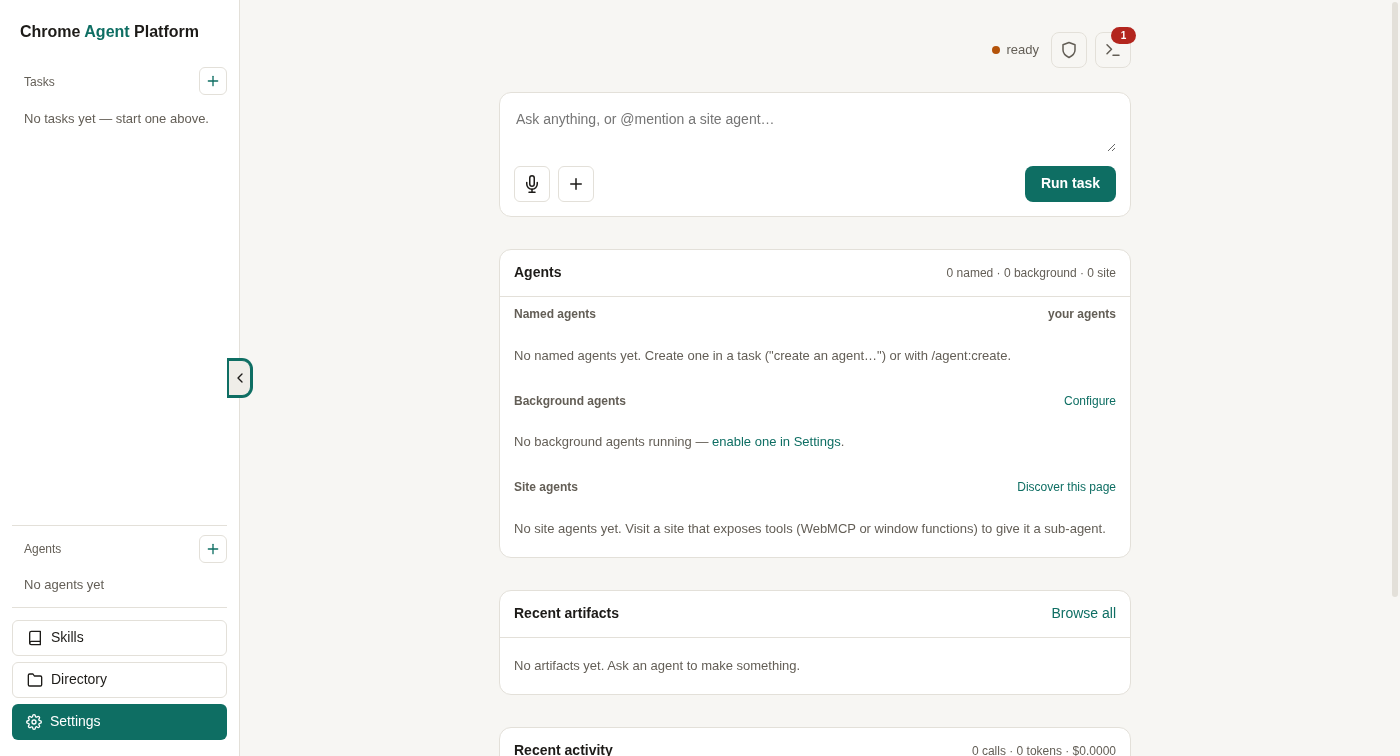
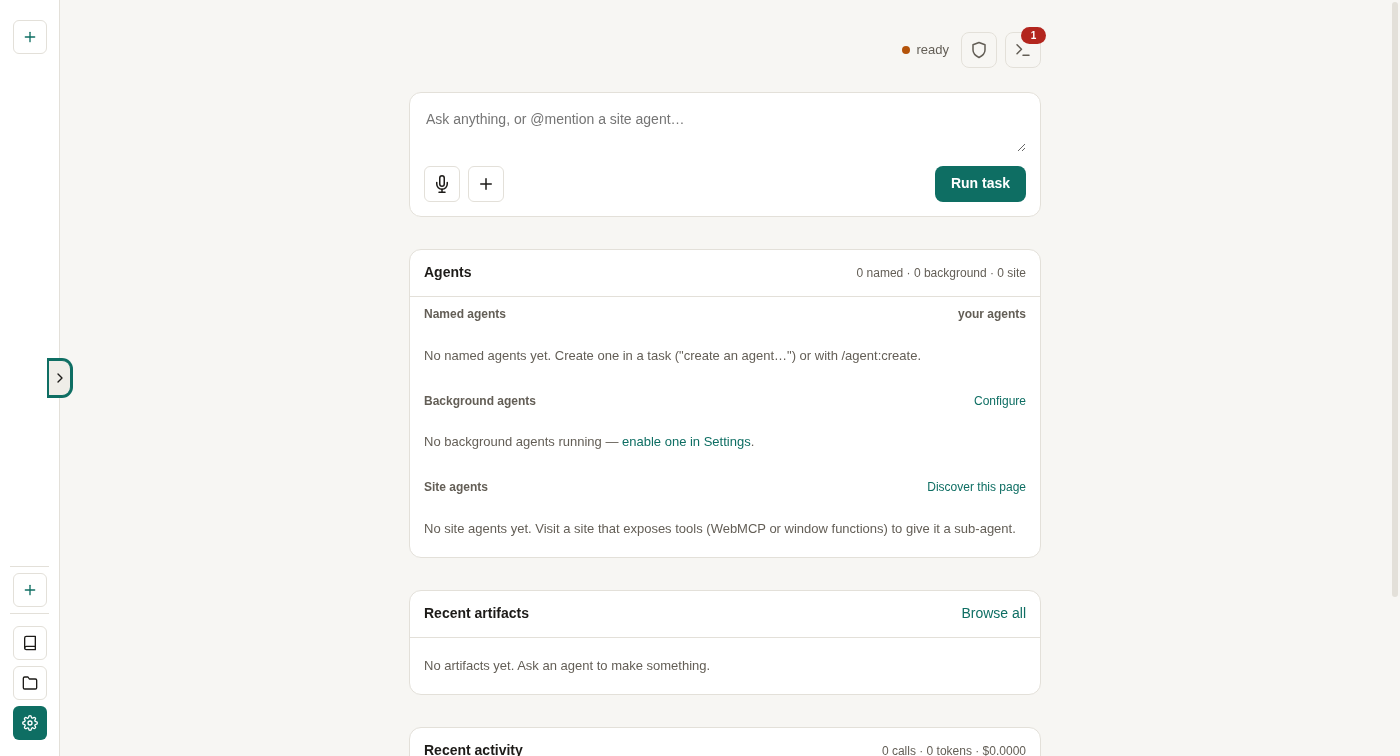
fix(sidebar): resolve second review blockers — nub sibling stacking, hit-testing, persistence contract, activity path, matrix
Review blockers (sol 8bd2351f) resolved:
1. RTL rail border now swaps to the inner (left) edge ([dir=rtl] .side border-left).
2. The nub is now a SIBLING of #side (moved out of the sidebar) so its z-index
   competes in the root stacking context against #thread-view — a descendant's
   z-index was trapped inside .side's sticky stacking context. elementFromPoint
   at 5 points + a pointer click are now asserted with the overlay open.
3. Persistence awaits + inspects kv.set's {ok:false} (send() resolves, doesn't
   reject); a backend failure logs a session-only warning instead of silently
   claiming persistence.
4. Rapid double-click asserts the deterministic net-zero prior state + a settled
   View Transition (width matches).
5. Activity is seeded through the PRODUCTION path: memory.set on the master
   journal, then the explorer re-loads via activity.list (not the demo entries
   setter).
6. test:all now uses deno test -A (was --allow-read; @vercel/oidc needs
   --allow-sys).
7. Matrix: narrow (500px), prefers-reduced-motion, and dark-theme checks added.
8. Evidence: test-artifacts/sidebar-evidence.json records the screenshot sha256
   hashes + the verified list; screenshots regenerated.

Gates: npm test 321/321, test:components 34/34, test:ui 32/32, git diff --check clean.

diff --git a/scripts/ui-integration.ts b/scripts/ui-integration.ts
@@ -182,6 +182,35 @@ try {
   // reachable when a view is open (the sidebar persists for the task thread).
   const nubZ = await cdp.eval(hub, `(() => { const t = document.querySelector('#side-toggle'); const z = t ? parseInt(getComputedStyle(t).zIndex) : 0; const tv = document.querySelector('#thread-view'); const tvz = tv ? parseInt(getComputedStyle(tv).zIndex) : 0; return { z, tvz }; })()`);
   check("nub z-index is above the thread overlay", nubZ?.z > nubZ?.tvz, nubZ);
+  // 2b-2. Real overlay hit-testing: force the thread overlay open and prove the
+  //     FULL 44×44 nub is still hit-testable (elementFromPoint) + toggles on a
+  //     pointer click — not just a z-index integer comparison.
+  const overlayHit = await cdp.eval(hub, `(() => {
+    const tv = document.getElementById('thread-view');
+    tv.hidden = false; // simulate an open thread (no seeded thread needed)
+    const t = document.querySelector('#side-toggle');
+    const r = t.getBoundingClientRect();
+    const pts = [
+      { x: r.left + r.width/2, y: r.top + r.height/2 },
+      { x: r.left + 3, y: r.top + 3 },
+      { x: r.right - 3, y: r.bottom - 3 },
+      { x: r.left + 3, y: r.bottom - 3 },
+      { x: r.right - 3, y: r.top + 3 },
+    ];
+    const hits = pts.map(p => { const el = document.elementFromPoint(p.x, p.y); return el && (el === t || t.contains(el)); });
+    tv.hidden = true;
+    return { allInNub: hits.every(Boolean), hits, r: { left: Math.round(r.left), right: Math.round(r.right), top: Math.round(r.top), bottom: Math.round(r.bottom) } };
+  })()`);
+  check("open-thread overlay: every sampled point of the 44×44 nub is hit-testable", overlayHit?.allInNub === true, overlayHit);
+  // A pointer click at the nub centre toggles even with the thread overlay open.
+  const ptrBefore = await cdp.eval(hub, `document.querySelector('#side').classList.contains('collapsed')`);
+  const nubCtr = await cdp.eval(hub, `(() => { const r = document.querySelector('#side-toggle').getBoundingClientRect(); return { x: r.left + r.width/2, y: r.top + r.height/2 }; })()`);
+  await cdp.eval(hub, `document.getElementById('thread-view').hidden = false`);
+  await cdp.send("Input.dispatchMouseEvent", { type: "mousePressed", x: nubCtr.x, y: nubCtr.y, button: "left", clickCount: 1 }, hub);
+  await cdp.send("Input.dispatchMouseEvent", { type: "mouseReleased", x: nubCtr.x, y: nubCtr.y, button: "left", clickCount: 1 }, hub);
+  await sleep(500);
+  const ptrAfter = await cdp.eval(hub, `(() => { document.getElementById('thread-view').hidden = true; return document.querySelector('#side').classList.contains('collapsed'); })()`);
+  check("pointer click on the nub toggles the sidebar with the thread overlay open", ptrAfter !== ptrBefore, { ptrBefore, ptrAfter });
   // Commit-specific evidence: capture the collapsed rail + nub.
   const shotCollapsed = await cdp.send("Page.captureScreenshot", { format: "png", fromSurface: true }, hub);
   await Deno.writeFile(`${ROOT}test-artifacts/sidebar-collapsed.png`, Uint8Array.from(atob(shotCollapsed.data), (c: number) => c.charCodeAt(0)));
@@ -194,19 +223,22 @@ try {
   await sleep(500); // let the View Transition settle
   const keyAfter = await cdp.eval(hub, `(() => { const t = document.querySelector('#side-toggle'); const side = document.querySelector('#side'); return { expanded: t.getAttribute('aria-expanded'), collapsed: side.classList.contains('collapsed'), label: t.getAttribute('aria-label'), title: t.title }; })()`);
   check("Enter toggles the sidebar (collapsed ↔ expanded)", keyBefore && keyAfter && keyBefore.collapsed !== keyAfter.collapsed, { keyBefore, keyAfter });
-  check("aria-expanded + label + title track the state", keyAfter && keyAfter.collapsed === false && keyAfter.expanded === "true" && keyAfter.label === "Collapse sidebar" && keyAfter.title === "Collapse sidebar", keyAfter);
+  check("aria-expanded + label + title track the state", keyAfter && keyAfter.expanded === String(!keyAfter.collapsed) && keyAfter.label === (keyAfter.collapsed ? "Expand sidebar" : "Collapse sidebar") && keyAfter.title === keyAfter.label, keyAfter);
   const shotExpanded = await cdp.send("Page.captureScreenshot", { format: "png", fromSurface: true }, hub);
   await Deno.writeFile(`${ROOT}test-artifacts/sidebar-expanded.png`, Uint8Array.from(atob(shotExpanded.data), (c: number) => c.charCodeAt(0)));
 
   // 2d. Space toggles too (native button activation).
   await cdp.eval(hub, `(() => { const t = document.querySelector('#side-toggle'); t.focus(); })()`);
+  const spaceBefore = await cdp.eval(hub, `document.querySelector('#side').classList.contains('collapsed')`);
   await cdp.send("Input.dispatchKeyEvent", { type: "rawKeyDown", key: " ", code: "Space", windowsVirtualKeyCode: 32, nativeVirtualKeyCode: 32 }, hub);
   await cdp.send("Input.dispatchKeyEvent", { type: "keyUp", key: " ", code: "Space", windowsVirtualKeyCode: 32, nativeVirtualKeyCode: 32 }, hub);
   await sleep(500);
   const spaceAfter = await cdp.eval(hub, `document.querySelector('#side').classList.contains('collapsed')`);
-  check("Space toggles the sidebar", spaceAfter === true, { spaceAfter });
+  check("Space toggles the sidebar", spaceAfter !== spaceBefore, { spaceBefore, spaceAfter });
 
-  // 2e. The collapsed state persists across a reload.
+  // 2e. The collapsed state persists across a reload (collapse first, then reload).
+  await cdp.eval(hub, `(() => { const side = document.querySelector('#side'); if (!side.classList.contains('collapsed')) document.querySelector('#side-toggle').click(); })()`);
+  await sleep(500);
   await cdp.send("Page.reload", {}, hub);
   await sleep(1500);
   const afterReload = await cdp.eval(hub, `(() => { const side = document.querySelector('#side'); return { collapsed: side?.classList.contains('collapsed') ?? false, width: side ? Math.round(side.getBoundingClientRect().width) : 0 }; })()`);
@@ -228,11 +260,14 @@ try {
   })()`);
   check("RTL nub centres on the rail's inner (left) boundary", rtlGeom && Math.abs(rtlGeom.nubCx - rtlGeom.sideLeft) <= 3, rtlGeom);
 
-  // 2g. Rapid double-click settles to a single, final state (no stuck transition).
+  // 2g. Rapid double-click is a NET-ZERO toggle: two clicks return the sidebar
+  //     to its prior state, and the View Transition settles (width matches).
+  const rapidBefore = await cdp.eval(hub, `document.querySelector('#side').classList.contains('collapsed')`);
   await cdp.eval(hub, `(() => { const t = document.querySelector('#side-toggle'); t.click(); t.click(); })()`);
   await sleep(700);
-  const rapid = await cdp.eval(hub, `(() => { const side = document.querySelector('#side'); const t = document.querySelector('#side-toggle'); return { collapsed: side.classList.contains('collapsed'), expanded: t.getAttribute('aria-expanded') }; })()`);
-  check("rapid double-click settles without a stuck transition", rapid && (rapid.collapsed === true || rapid.collapsed === false) && rapid.expanded === String(!rapid.collapsed), rapid);
+  const rapidAfter = await cdp.eval(hub, `(() => { const side = document.querySelector('#side'); const t = document.querySelector('#side-toggle'); return { collapsed: side.classList.contains('collapsed'), width: Math.round(side.getBoundingClientRect().width), expanded: t.getAttribute('aria-expanded') }; })()`);
+  check("rapid double-click returns to the deterministic prior state (net-zero)", rapidAfter.collapsed === rapidBefore, { rapidBefore, rapidAfter });
+  check("View Transition settled (width matches the final state)", rapidAfter.width === (rapidAfter.collapsed ? 60 : 240), rapidAfter);
 
   // 3. The + menu opens AND stays in-bounds.
   const attach = await cdp.eval(hub, `(() => {
@@ -275,21 +310,24 @@ try {
     check("the error console stays in-bounds", inBounds(consoleRect.rect, consoleRect.vw, consoleRect.vh), consoleRect.rect);
   }
 
-  // 5. The recent-activity rows have horizontal padding + real entry content
-  //    (an EMPTY state is non-attesting: it renders even if activity loading
-  //    is broken). Seed a real entry and assert its content + padding.
-  const activity = await cdp.eval(hub, `(() => {
-    const ae = document.querySelector('#run-log activity-explorer');
-    if (!ae || !ae.shadowRoot) return { note: 'no activity-explorer' };
-    // Seed via the component's public entries setter (the gallery path) so we
-    // assert the ENTRY render, not the empty state.
-    ae.entries = [{ id: 't1', source: 'hub', agentLabel: 'Hub', type: 'task', task: 'Summarise the docs', result: 'done' }];
-    const summary = ae.shadowRoot.querySelector('.aex-entry summary');
-    if (!summary) return { note: 'no entry rendered' };
+  // 5. The recent-activity rows have horizontal padding + real entry content,
+  //    loaded through the PRODUCTION activity.list path (not the demo entries
+  //    setter): seed the SW master journal via memory.set, recreate the explorer
+  //    so it re-loads via activity.list, and assert the rendered entry.
+  const activity = await cdp.eval(hub, `(async () => {
+    const seed = await chrome.runtime.sendMessage({ type: "memory.set", origin: "master", key: "journal", value: [{ type: "task", id: "t1", task: "Summarise the docs", tool: "demo" }] });
+    const el = document.getElementById('run-log');
+    el.replaceChildren();
+    const explorer = document.createElement('activity-explorer');
+    explorer.setAttribute('limit', '100');
+    el.append(explorer);
+    await new Promise(r => setTimeout(r, 600)); // let _load() round-trip activity.list
+    const summary = explorer.shadowRoot?.querySelector('.aex-entry summary');
+    if (!summary) return { note: 'no entry rendered', seed };
     const cs = getComputedStyle(summary);
-    return { paddingLeft: parseFloat(cs.paddingLeft), paddingTop: parseFloat(cs.paddingTop), text: summary.textContent.trim(), entryCount: ae.shadowRoot.querySelectorAll('.aex-entry').length, empty: !!ae.shadowRoot.querySelector('.aex-empty') };
+    return { paddingLeft: parseFloat(cs.paddingLeft), paddingTop: parseFloat(cs.paddingTop), text: summary.textContent.trim(), entryCount: explorer.shadowRoot.querySelectorAll('.aex-entry').length, empty: !!explorer.shadowRoot.querySelector('.aex-empty'), seed };
   })()`);
-  check("recent-activity renders the seeded entry (content, not empty)", activity?.entryCount === 1 && activity?.empty === false && /Summarise the docs/.test(activity?.text ?? ""), activity);
+  check("recent-activity renders the journal entry via production activity.list", activity?.entryCount === 1 && activity?.empty === false && /Summarise the docs/.test(activity?.text ?? ""), activity);
   check("the recent-activity entry has horizontal padding (not edge-to-edge)", (activity?.paddingLeft ?? 0) > 0, activity);
 
   // ---- Settings ----
@@ -330,6 +368,27 @@ try {
     return { hasInput: !!inp, hasSend: send };
   })()`);
   check("chat composer renders (input + send)", chatComposer?.hasInput && chatComposer?.hasSend, chatComposer);
+
+  // 8. Responsive + theme + reduced-motion matrix (the nub must hold up beyond
+  //    the default 1400×900 light LTR run).
+  await cdp.send("Emulation.setDeviceMetricsOverride", { width: 500, height: 800, deviceScaleFactor: 1, mobile: false }, hub);
+  const narrow = await cdp.eval(hub, `(() => { const t = document.querySelector('#side-toggle'); const r = t.getBoundingClientRect(); return { left: Math.round(r.left), right: Math.round(r.right), vw: innerWidth, inBounds: r.left >= 0 && r.right <= innerWidth }; })()`);
+  check("narrow (500px) viewport: nub stays in-bounds", narrow?.inBounds === true, narrow);
+  await cdp.send("Emulation.setDeviceMetricsOverride", { width: 1400, height: 900, deviceScaleFactor: 1, mobile: false }, hub);
+
+  await cdp.send("Emulation.setEmulatedMedia", { features: [{ name: "prefers-reduced-motion", value: "reduce" }] }, hub);
+  const reducedMotion = await cdp.eval(hub, `(() => { const t = document.querySelector('#side-toggle'); return { transition: getComputedStyle(t).transition }; })()`);
+  check("prefers-reduced-motion disables the nub transition", reducedMotion && (reducedMotion.transition === "none" || reducedMotion.transition.includes("0s")), reducedMotion);
+  await cdp.send("Emulation.setEmulatedMedia", { features: [] }, hub);
+
+  const darkNub = await cdp.eval(hub, `(() => {
+    document.documentElement.dataset.theme = 'charcoal';
+    const nub = document.querySelector('#side-toggle .nub');
+    const cs = getComputedStyle(nub);
+    document.documentElement.dataset.theme = 'sunlit';
+    return { visible: cs.borderTopStyle !== 'none' && cs.borderTopWidth !== '0px', border: cs.borderTopColor };
+  })()`);
+  check("dark theme: nub renders with a visible border", darkNub?.visible === true, darkNub);
 
   exitCode = fail === 0 ? 0 : 1;
 } finally {

diff --git a/extension/ntp/ntp.html b/extension/ntp/ntp.html
@@ -27,7 +27,6 @@
       display: none;
     }
     .side {
-      --side-width: 240px;
       width: 240px;
       flex: 0 0 240px;
       border-right: 1px solid var(--border);
@@ -43,18 +42,20 @@
       transition: width .18s ease, flex-basis .18s ease;
     }
     /* collapsed → a narrow icon rail */
-    .side.collapsed { --side-width: 60px; width: 60px; flex-basis: 60px; padding-left: 10px; padding-right: 10px; }
+    .side.collapsed { width: 60px; flex-basis: 60px; padding-left: 10px; padding-right: 10px; }
     .brand-row { display: flex; align-items: center; gap: 6px; }
     .brand-row .brand { flex: 1; min-width: 0; overflow: hidden; white-space: nowrap; }
     /* The collapse/expand control is an edge NUB protruding from the sidebar's
        right boundary — attached to the panel, discoverable, min 44×44 hit
-       target (the visible tab is smaller). position:fixed keeps it outside the
-       sidebar's overflow clip; --side-width tracks the rail so the nub follows
-       the collapse transition. */
+       target (the visible tab is smaller). It is a SIBLING of #side (not a
+       descendant) so its z-index competes in the root stacking context against
+       the #thread-view overlay — a descendant's z-index would be trapped inside
+       .side's sticky stacking context and painted under the overlay. */
     .side-toggle { display: inline-flex; align-items: center; justify-content: center;
-      position: fixed; left: var(--side-width, 240px); top: 50%; transform: translate(-50%, -50%);
+      position: fixed; left: 240px; top: 50%; transform: translate(-50%, -50%);
       width: 44px; height: 44px; border: 0; background: transparent; color: var(--muted);
       cursor: pointer; padding: 0; z-index: 110; transition: left .18s ease; }
+    #side.collapsed ~ .side-toggle { left: 60px; }
     .side-toggle .nub { display: inline-flex; align-items: center; justify-content: center;
       width: 22px; height: 36px; border: 1px solid var(--border); border-left: 0;
       border-radius: 0 9px 9px 0; background: var(--panel);
@@ -64,17 +65,20 @@
     .side-toggle:focus-visible { outline: none; }
     .side-toggle:focus-visible .nub { box-shadow: 0 0 0 2px var(--accent); }
     .side-toggle svg { display: block; transition: transform .18s ease; }
-    .side.collapsed .side-toggle svg { transform: rotate(180deg); }
+    #side.collapsed ~ .side-toggle svg { transform: rotate(180deg); }
     @media (prefers-reduced-motion: reduce) {
       .side-toggle, .side-toggle .nub, .side-toggle svg { transition: none; }
     }
     /* RTL: the rail sits on the right — mirror the nub to the left edge, flip
        the horizontal translate (the nub protrudes LEFT now), and mirror the
        chevron + border so collapse/expand direction reads correctly. */
-    [dir="rtl"] .side-toggle { left: auto; right: var(--side-width, 240px); transform: translate(50%, -50%); }
+    [dir="rtl"] .side-toggle { left: auto; right: 240px; transform: translate(50%, -50%); }
+    [dir="rtl"] #side.collapsed ~ .side-toggle { right: 60px; }
     [dir="rtl"] .side-toggle .nub { border-left: 1px solid var(--border); border-right: 0; border-radius: 9px 0 0 9px; }
     [dir="rtl"] .side-toggle svg { transform: scaleX(-1); }
-    [dir="rtl"] .side.collapsed .side-toggle svg { transform: scaleX(-1) rotate(180deg); }
+    [dir="rtl"] #side.collapsed ~ .side-toggle svg { transform: scaleX(-1) rotate(180deg); }
+    /* RTL: the rail's hairline border belongs on the INNER (left) edge. */
+    [dir="rtl"] .side { border-right: 0; border-left: 1px solid var(--border); }
     .side-label-row { display: flex; align-items: center; gap: 4px; }
     .side-label-row .side-label { flex: 1; min-width: 0; }
     /* Rail action buttons (new-task / new-agent) share the icon scale with the
@@ -545,15 +549,18 @@
           <svg viewBox="0 0 24 24" fill="none" stroke="currentColor" stroke-width="2" stroke-linecap="round" stroke-linejoin="round" width="16" height="16" aria-hidden="true"><path d="M22 19a2 2 0 0 1-2 2H4a2 2 0 0 1-2-2V5a2 2 0 0 1 2-2h5l2 3h9a2 2 0 0 1 2 2z"/></svg>
           <span class="btn-label">Directory</span>
         </button>
-      <button class="side-toggle" id="side-toggle" type="button" aria-label="Collapse sidebar" aria-expanded="true" title="Collapse sidebar">
-        <span class="nub"><svg viewBox="0 0 24 24" fill="none" stroke="currentColor" stroke-width="2" stroke-linecap="round" stroke-linejoin="round" width="16" height="16" aria-hidden="true"><polyline points="15 18 9 12 15 6"/></svg></span>
-      </button>
         <button class="btn foot-btn" id="open-settings" type="button" title="Settings">
           <svg viewBox="0 0 24 24" fill="none" stroke="currentColor" stroke-width="2" stroke-linecap="round" stroke-linejoin="round" width="16" height="16" aria-hidden="true"><circle cx="12" cy="12" r="3"/><path d="M19.4 15a1.65 1.65 0 0 0 .33 1.82l.06.06a2 2 0 0 1-2.83 2.83l-.06-.06a1.65 1.65 0 0 0-1.82-.33 1.65 1.65 0 0 0-1 1.51V21a2 2 0 0 1-4 0v-.09A1.65 1.65 0 0 0 9 19.4a1.65 1.65 0 0 0-1.82.33l-.06.06a2 2 0 0 1-2.83-2.83l.06-.06a1.65 1.65 0 0 0 .33-1.82 1.65 1.65 0 0 0-1.51-1H3a2 2 0 0 1 0-4h.09A1.65 1.65 0 0 0 4.6 9a1.65 1.65 0 0 0-.33-1.82l-.06-.06a2 2 0 0 1 2.83-2.83l.06.06a1.65 1.65 0 0 0 1.82.33H9a1.65 1.65 0 0 0 1-1.51V3a2 2 0 0 1 4 0v.09a1.65 1.65 0 0 0 1 1.51 1.65 1.65 0 0 0 1.82-.33l.06-.06a2 2 0 0 1 2.83 2.83l-.06.06a1.65 1.65 0 0 0-.33 1.82V9a1.65 1.65 0 0 0 1.51 1H21a2 2 0 0 1 0 4h-.09a1.65 1.65 0 0 0-1.51 1z"/></svg>
           <span class="btn-label">Settings</span>
         </button>
       </div>
     </aside>
+
+    <!-- The collapse/expand edge nub — a SIBLING of the sidebar (not a child) so
+         its z-index competes in the root stacking context against the overlays. -->
+    <button class="side-toggle" id="side-toggle" type="button" aria-label="Collapse sidebar" aria-expanded="true" title="Collapse sidebar">
+      <span class="nub"><svg viewBox="0 0 24 24" fill="none" stroke="currentColor" stroke-width="2" stroke-linecap="round" stroke-linejoin="round" width="16" height="16" aria-hidden="true"><polyline points="15 18 9 12 15 6"/></svg></span>
+    </button>
 
     <main class="content">
       <div class="main-wrap">

diff --git a/extension/ntp/ntp.js b/extension/ntp/ntp.js
@@ -1193,19 +1193,37 @@ function setSidebarCollapsed(collapsed) {
   sideToggle.setAttribute("aria-label", collapsed ? "Expand sidebar" : "Collapse sidebar");
   sideToggle.setAttribute("title", collapsed ? "Expand sidebar" : "Collapse sidebar");
   sideToggle.setAttribute("aria-expanded", String(!collapsed));
-  // Persist via the SW's kv routes (single authority) so a reload restores it.
-  // chrome.storage.local would throw when the optional storage permission is
-  // absent, and would miss the SW's session fallback.
-  send("kv.set", { values: { [SIDEBAR_KEY]: collapsed } }).catch(() => {});
+  // Persist via the SW's kv routes (single authority). send() RESOLVES a
+  // {ok:false} on backend failure (storage granted but write failed) rather
+  // than rejecting, so we await + inspect the result instead of relying on a
+  // catch. A permissionless session fallback still returns ok:true (nothing
+  // persists, but the SW session Map keeps it for this boot).
+  persistSidebar(collapsed);
+}
+async function persistSidebar(collapsed) {
+  try {
+    const r = await send("kv.set", { values: { [SIDEBAR_KEY]: collapsed } });
+    if (r?.ok === false) {
+      // Durable backend failed — the collapse is session-only this run.
+      console.warn("sidebar collapse not persisted:", r.error ?? "unknown");
+    }
+  } catch {
+    // worker unreachable — session-only (no persistence).
+  }
 }
 sideToggle?.addEventListener("click", () => {
   withViewTransition(() => setSidebarCollapsed(!sidebarCollapsed));
 });
-// Restore the persisted rail state on load.
-(async () => {
-  const s = await send("kv.get", { keys: SIDEBAR_KEY }).catch(() => ({}));
-  if (s?.[SIDEBAR_KEY] === true) setSidebarCollapsed(true);
-})();
+// Restore the persisted rail state on load (session or durable).
+async function restoreSidebar() {
+  try {
+    const s = await send("kv.get", { keys: SIDEBAR_KEY });
+    if (s?.[SIDEBAR_KEY] === true) setSidebarCollapsed(true);
+  } catch {
+    // worker unreachable — default expanded.
+  }
+}
+restoreSidebar();
 
 // The "+" new-task button returns to the hub + focuses the composer. When the
 // user is inside a task thread, it also closes the thread view so the composer

diff --git a/CHANGELOG.md b/CHANGELOG.md
@@ -1,5 +1,8 @@
 # Changelog
 
+## [0.2.75] — 2026-08-18
+- fix(sidebar): resolve second review blockers — nub sibling stacking, hit-testing, persistence contract, activity path, matrix
+
 ## [0.2.74] — 2026-08-18
 - fix(sidebar): address review blockers — RTL geometry, overlay stacking, persistence, evidence, matrix
 
